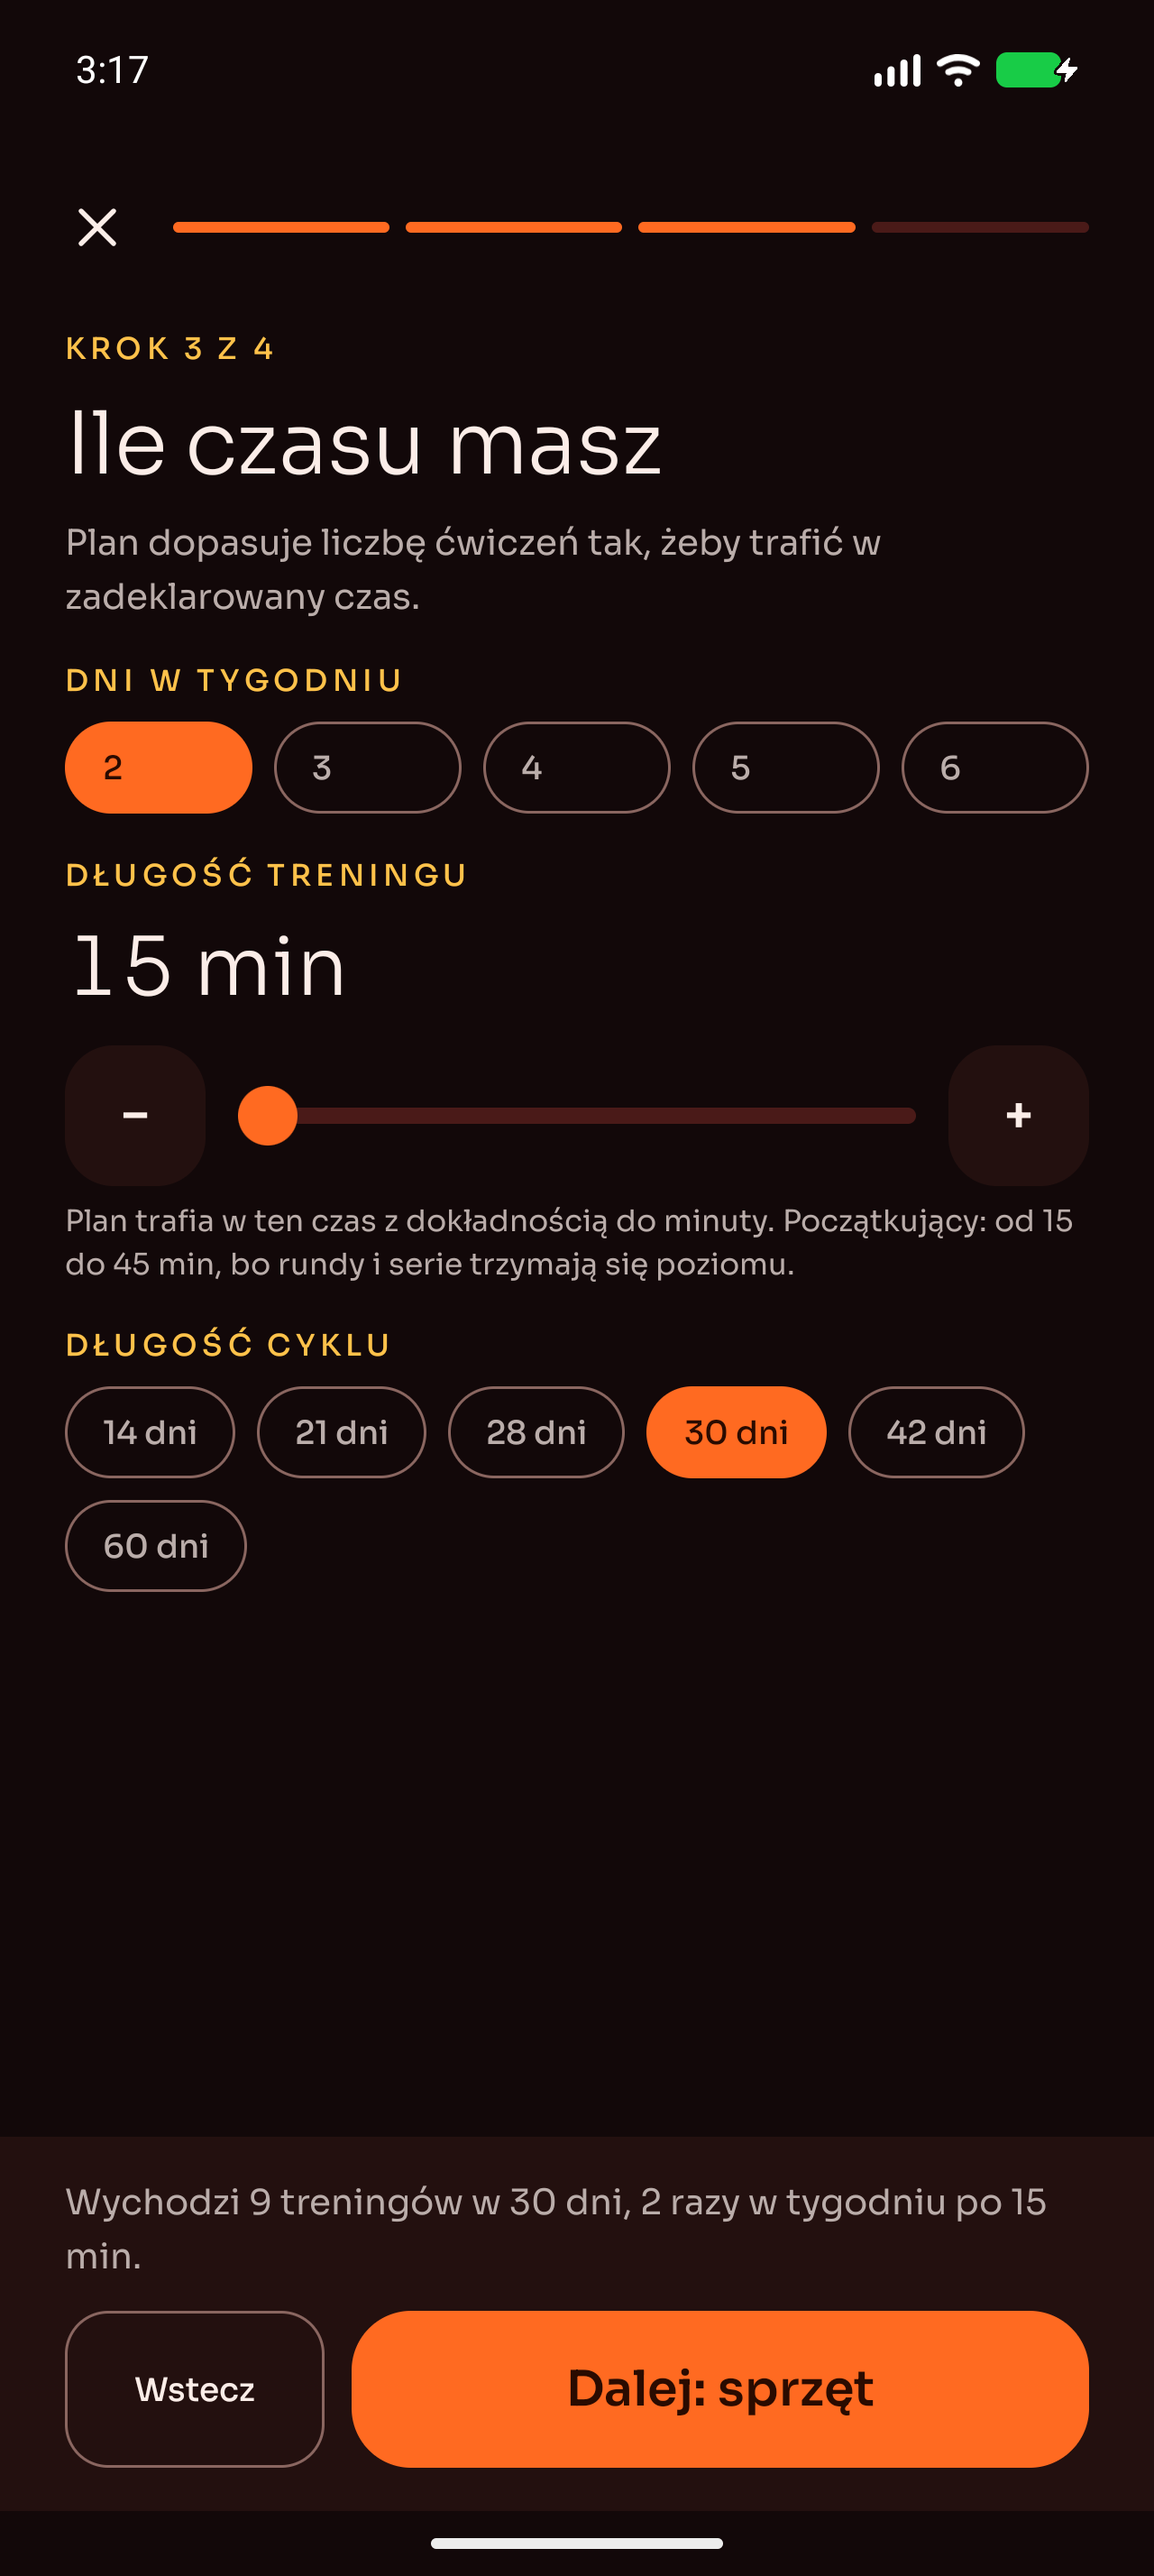
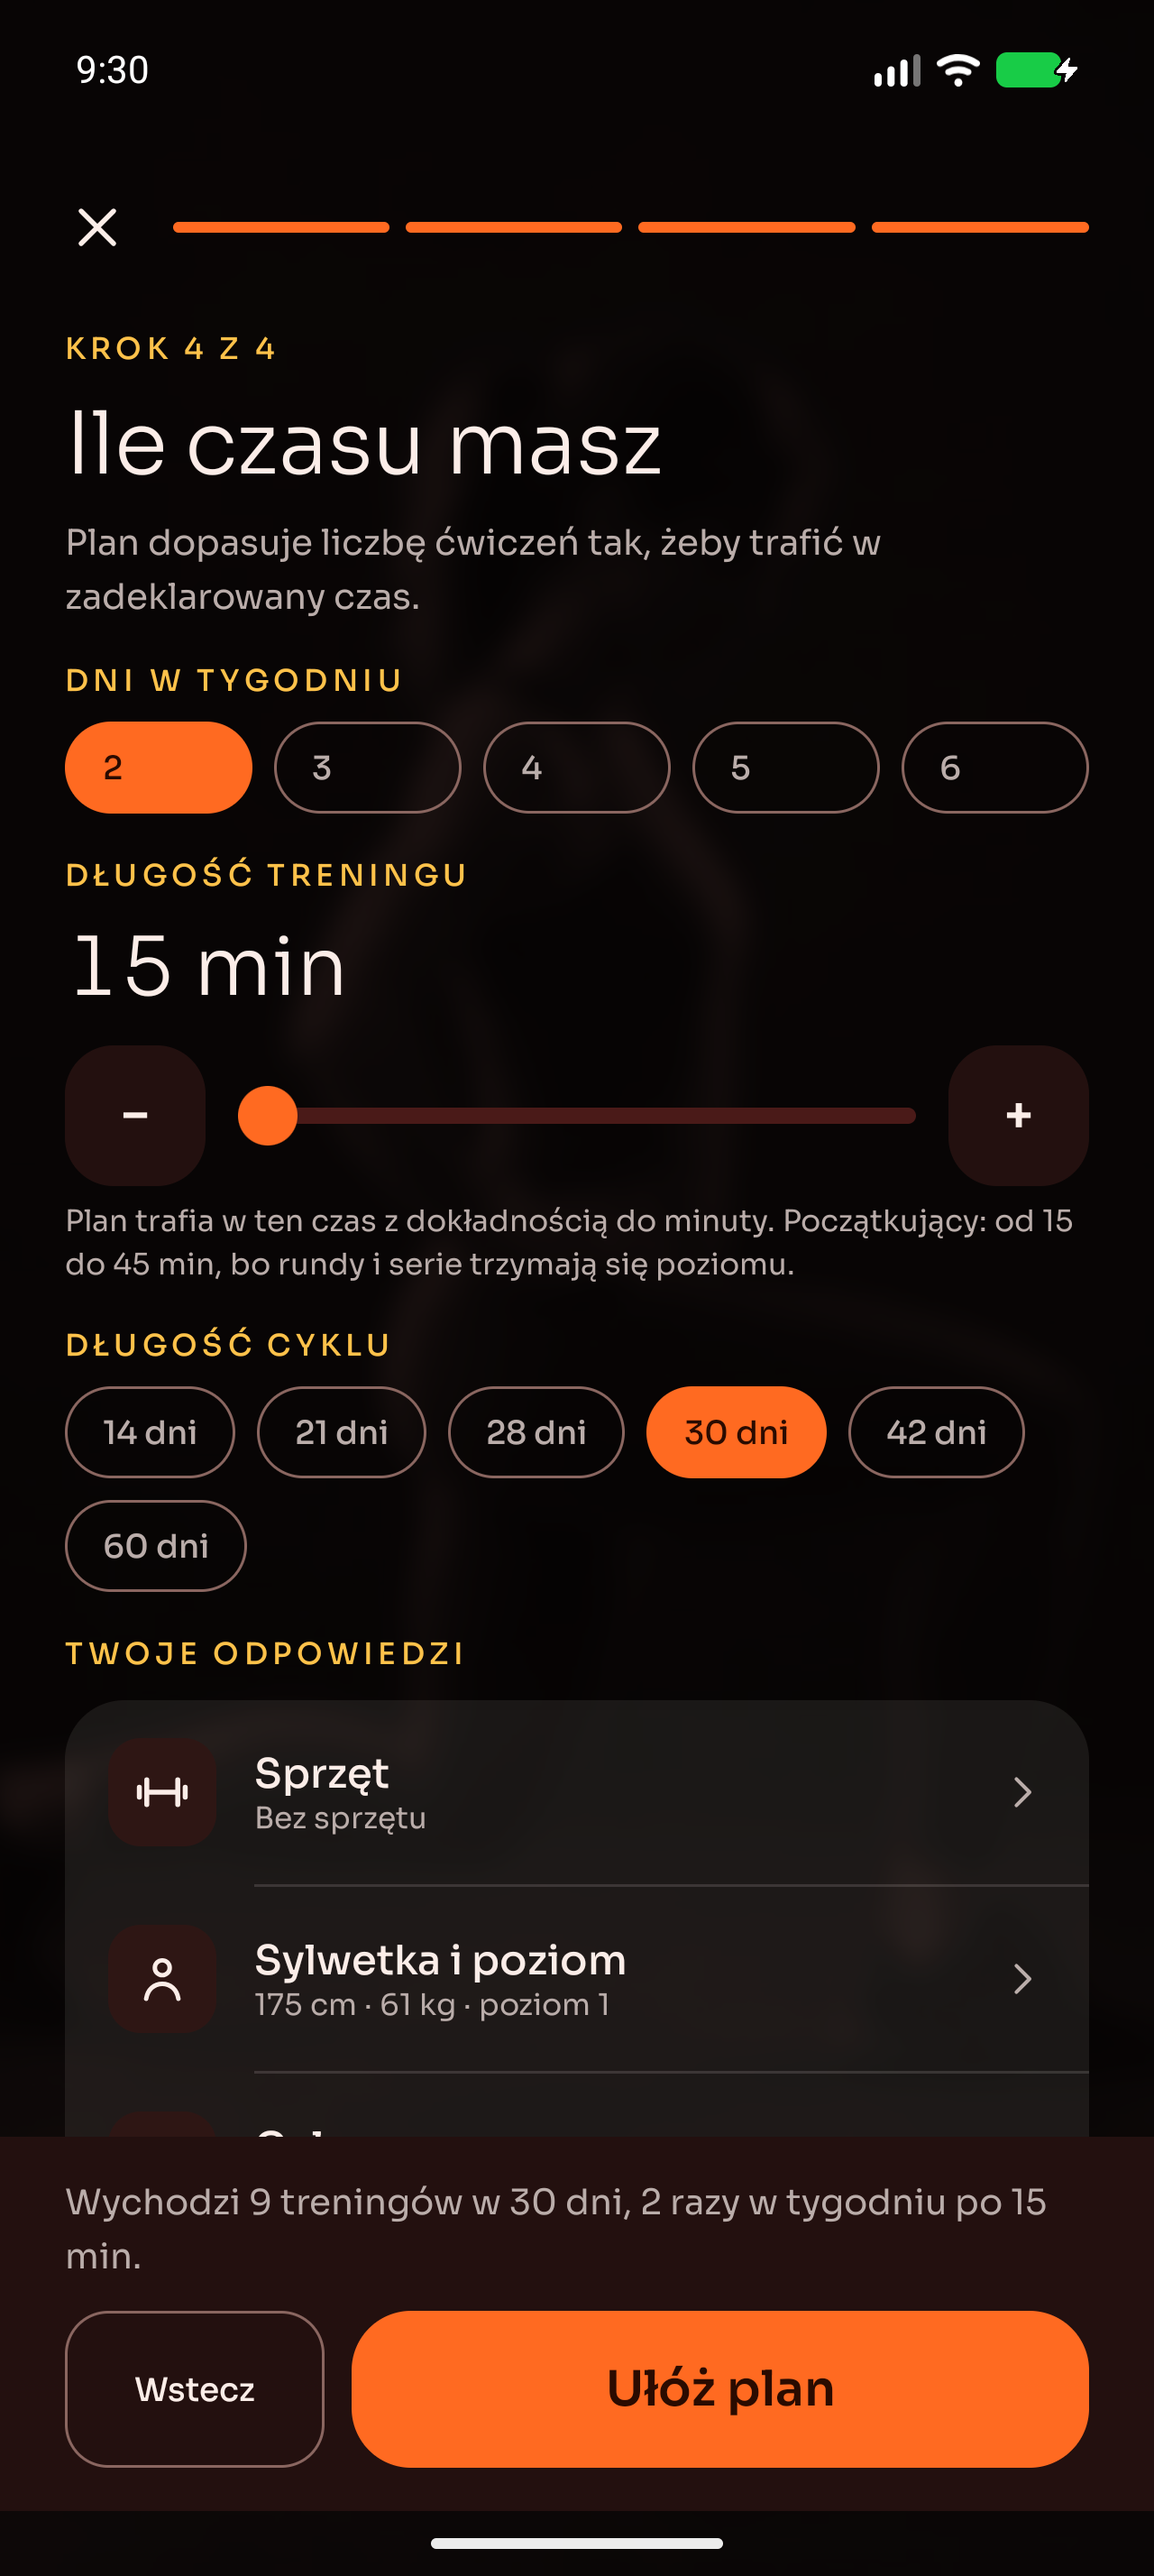
Odśwież zrzuty ekranu ze zdjęciem dnia i nowymi zdjęciami tła (#8)
Przejście na emulatorach Pixel 9 Pro i Pixel Tablet po D-55: zdjęcie dnia
pod ekranami, szklane karty, nagłówek „Trening na dziś”, kreator od sprzętu
i „O mnie” w Ustawieniach (D-57).

diff --git a/docs/screenshots/README.md b/docs/screenshots/README.md
@@ -1,7 +1,8 @@
 # Zrzuty ekranu
 
-Emulator Pixel_9_Pro (API 37), stan z 2026-11-06: nowy interfejs (D-52, D-53, D-54) w motywie „Ogień i Krew” z tłem
-jednolitym, jeden zrzut w motywie jasnym. Plan z kreatora: początkujący, 2 dni w tygodniu, 15 minut, bez sprzętu
+Emulator Pixel_9_Pro (API 37), stan z 2026-11-06: nowy interfejs (D-52, D-53, D-54) w motywie „Ogień i Krew”
+ze zdjęciem dnia pod ekranami (D-55, własne zdjęcia bazy 11 z issue #8) i szklanymi kartami, jeden zrzut w motywie
+jasnym. Plan z kreatora: początkujący, 2 dni w tygodniu, 15 minut, bez sprzętu
 (`tools/przebieg.py`). Gotowe programy z `tools/przebieg_preset.py`, biblioteka z `tools/przebieg_biblioteka.py`.
 Zamknięty cykl pochodzi z AVD tabletu w pionie, bo tam był cykl z kreatora doprowadzony do końca.
 Układ tych samych ekranów z fiksturami, na telefonie i tablecie, rysuje też `LayoutScreenshotTest`
@@ -9,17 +10,17 @@ do [`app/src/test/screenshots/uklad`](../../app/src/test/screenshots/uklad).
 
 | Plik | Co pokazuje |
 |---|---|
-| [dzis.png](dzis.png) | Ekran główny: data, zdanie o dzisiejszym treningu i jedna karta dnia z miniaturami ćwiczeń, paskiem tygodnia, Startem i dwoma cichymi odsyłaczami. Bez listy treningów do wybierania |
+| [dzis.png](dzis.png) | Ekran główny: data, nagłówek „Trening na dziś” bez partii dnia (D-55) i jedna karta dnia z miniaturami ćwiczeń, paskiem tygodnia, Startem i dwoma cichymi odsyłaczami. Bez listy treningów do wybierania |
 | [dzis-jasny.png](dzis-jasny.png) | Ten sam ekran w motywie jasnym „Papier i Ogień”: ogień ciemnieje do karminu, żar do złota, żeby trzymać kontrast na papierze |
 | [trening.png](trening.png) | Co jest w treningu: chipy poziomu, nagłówek bloku z rundami i przerwą, wiersze ćwiczeń z miniaturą i celem |
 | [player.png](player.png) | Player: pozycja w żarze, nazwa ćwiczenia, wielka liczba powtórzeń, ilustracja, triada „−/Zrobione/+” i ciche Wstecz, Pauza, Pomiń; poziom i przerwanie w menu ⋮ |
 | [plan.png](plan.png) | Cykl jako kolejka: postęp, karta następnego dnia ze Startem i rozkład tygodniami; rozwinięty tydzień z następnym treningiem, kolejne odpoczynki jednym wierszem (D-54) |
-| [kreator.png](kreator.png) | Kreator w czterech krokach, tu krok trzeci: dni w tygodniu, długość treningu i cyklu, a w stopce podgląd planu; × zamyka kreator z każdego kroku |
+| [kreator.png](kreator.png) | Kreator w czterech krokach od sprzętu (D-57), tu ostatni: dni w tygodniu, długość treningu i cyklu, a w stopce podgląd planu; × zamyka kreator z każdego kroku |
 | [cwiczenia.png](cwiczenia.png) | Biblioteka: tytuł, pole szukania z lejkiem filtrów i kafelki z ilustracjami (D-52) |
 | [podsumowanie.png](podsumowanie.png) | Podsumowanie po treningu: liczby zamiast pochwał, opinie do ćwiczeń, ocena wysiłku RPE i pole notatki |
 | [cykl-zamkniety.png](cykl-zamkniety.png) | Zamknięty cykl (tablet w pionie): siatka statystyk i pytanie „jak poszedł ten cykl”, które ustawia trudność następnego |
 | [historia.png](historia.png) | Historia: okres i jego statystyki, rozwinięty „Postęp” z wolumenem tygodniowym i kalendarzem aktywności, segmenty stanu nad listą (D-54) |
-| [ustawienia.png](ustawienia.png) | Ustawienia: sześć kategorii z ikoną i streszczeniem stanu (D-52) |
+| [ustawienia.png](ustawienia.png) | Ustawienia: siedem kategorii z ikoną i streszczeniem stanu, na górze „O mnie” (D-52, D-57) |
 | [health-connect.png](health-connect.png) | Wpis z ukończonego treningu w Health Connect (D-31) |
 | [gotowe-programy.png](gotowe-programy.png) | Gotowe programy (D-37): katalog, ustawienia programu, karta „Dziś” z etapem Tabaty, podgląd cyklu |
 | [gotowe-programy-player.png](gotowe-programy-player.png) | Player w stałym protokole: Tabata z numerem rundy, oddech w rytmie, zatrzymanie bez limitu, podsumowanie bez „Więcej/Mniej” |
